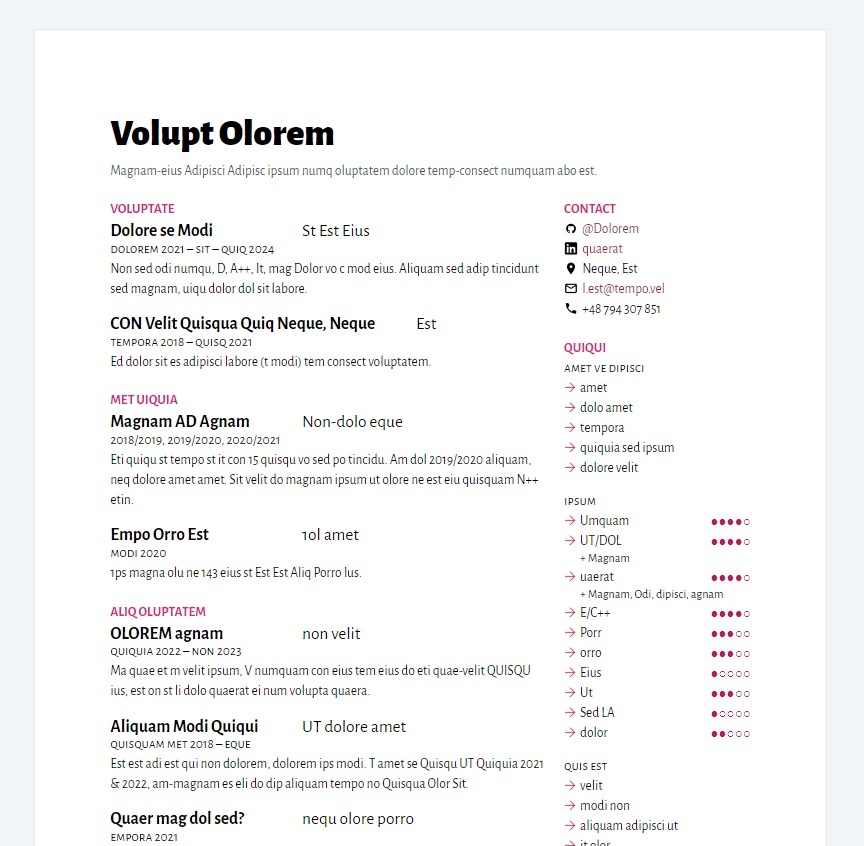
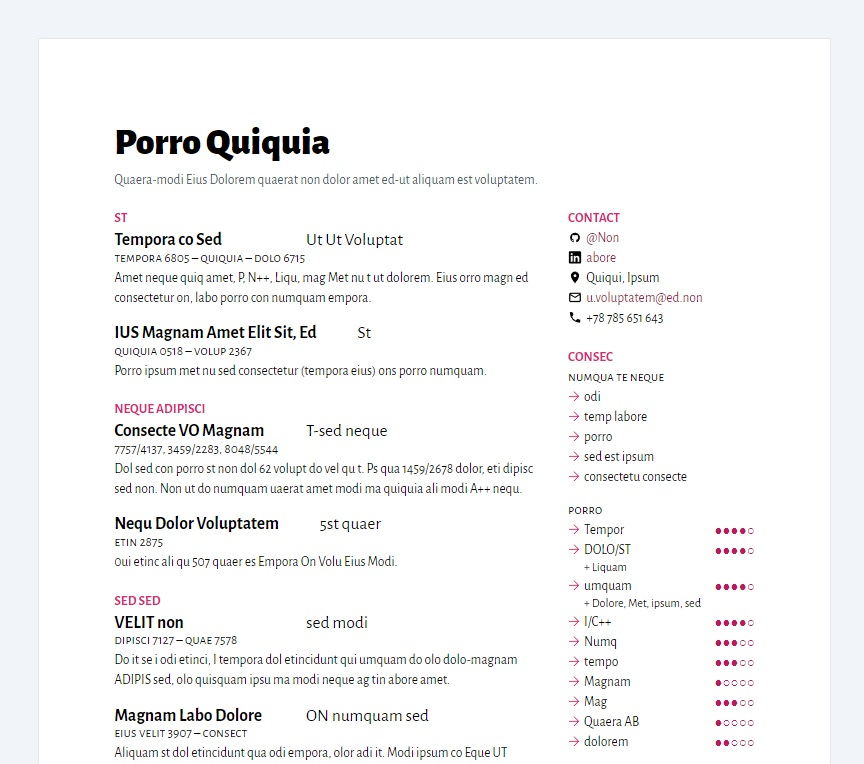
New version

Changed region(s): [[0.125, 0.1204, 0.6875, 0.9935], [0.6562, 0.2408, 0.875, 1.0]]

diff --git a/svelte.config.js b/svelte.config.js
@@ -9,19 +9,19 @@ const config = {
     '.svx'
   ],
 
-	// Consult https://kit.svelte.dev/docs/integrations#preprocessors
-	// for more information about preprocessors
-	preprocess: [vitePreprocess(), mdsvex()],
+  // Consult https://kit.svelte.dev/docs/integrations#preprocessors
+  // for more information about preprocessors
+  preprocess: [vitePreprocess(), mdsvex()],
 
-	kit: {
-		// adapter-auto only supports some environments, see https://kit.svelte.dev/docs/adapter-auto for a list.
-		// If your environment is not supported or you settled on a specific environment, switch out the adapter.
-		// See https://kit.svelte.dev/docs/adapters for more information about adapters.
-		adapter: adapter(),
+  kit: {
+    // adapter-auto only supports some environments, see https://kit.svelte.dev/docs/adapter-auto for a list.
+    // If your environment is not supported or you settled on a specific environment, switch out the adapter.
+    // See https://kit.svelte.dev/docs/adapters for more information about adapters.
+    adapter: adapter(),
     paths: {
-      base: process.env.NODE_ENV === 'production' ? '/sveltekit-github-pages' : '',
+      base: process.env.NODE_ENV === 'production' ? '/resume-template' : '',
+    }
   }
-	}
 };
 
 export default config;

diff --git a/src/anonymize_data.py b/src/anonymize_data.py
@@ -20,8 +20,13 @@ def rep_word(s: str):
         z = z.upper()
     return z[:len(s)]
 
+def rep_num(s: str):
+    return re.sub(r".", lambda m: random.choice("0123456789"), s)
+
 def rep(s: str):
-    return re.sub(r"\p{L}+", lambda m: rep_word(m.group(0)), s)
+    s = re.sub(r"\p{L}+", lambda m: rep_word(m.group(0)), s)
+    s = re.sub(r"[0-9]+", lambda m: rep_num(m.group(0)), s)
+    return s
 
 def walk(x):
     if isinstance(x, str):
